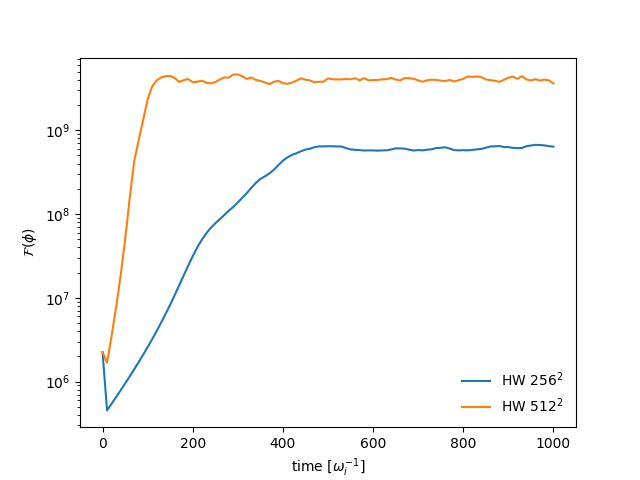
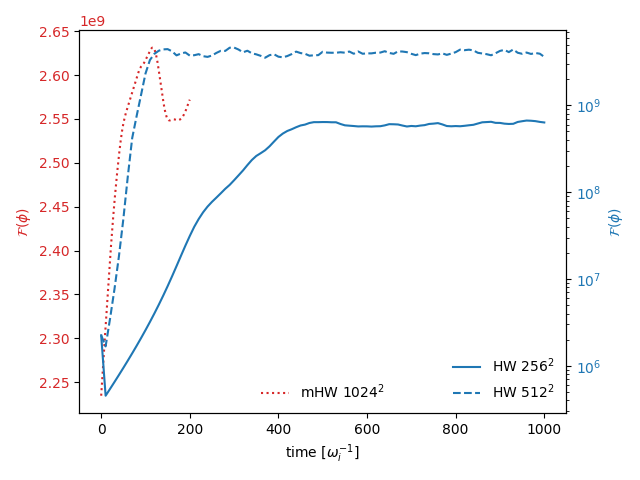
Updated files

diff --git a/plot_all.py b/plot_all.py
@@ -1,26 +1,54 @@
 import numpy as np
 import matplotlib.pyplot as plt
-   
-(ttime, Energy) = np.loadtxt("./HW_N256/energy_vs_time.txt",dtype="float64",unpack=True)
-plt.plot(ttime, Energy, label="HW $256^2$")
 
-(ttime, Energy) = np.loadtxt("./HW_N512/energy_vs_time.txt",dtype="float64",unpack=True)
-plt.plot(ttime, Energy, label="HW $512^2$")
+
+#------------------------------------ energy vs time
+fig, ax1 = plt.subplots()
+
+# mHW 1024
+# ax1.set_yscale('log')
+color = 'tab:red'
+ax1.set_xlabel(r"time [$\omega^{-1}_i$]")
+ax1.set_ylabel(r"$\mathcal{F} (\phi)$", color=color)
 
 (ttime, Energy) = np.loadtxt("./mHW_N1024/energy_vs_time.txt",dtype="float64",unpack=True)
-plt.plot(ttime, Energy, label="mHW $1024^2$")
+plt.plot(ttime, Energy, label="mHW $1024^2$", color=color, linestyle='dotted')
 
-plt.yscale("log")
+ax1.tick_params(axis='y', labelcolor=color)
 
-plt.xlabel(r"time [$\omega^{-1}_i$]")
-plt.ylabel(r"$\mathcal{F} (\phi)$")
+plt.legend(frameon=False, loc='lower center')
+
+
+
+# HW 256 and 512
+ax2 = ax1.twinx()  # instantiate a second axes that shares the same x-axis
+
+ax2.set_yscale('log')
+
+color = 'tab:blue'
+ax2.set_ylabel(r"$\mathcal{F} (\phi)$", color=color)
+
+(ttime, Energy) = np.loadtxt("./HW_N256/energy_vs_time.txt",dtype="float64",unpack=True)
+plt.plot(ttime, Energy, label="HW $256^2$", color=color, linestyle='solid')
+
+(ttime, Energy) = np.loadtxt("./HW_N512/energy_vs_time.txt",dtype="float64",unpack=True)
+plt.plot(ttime, Energy, label="HW $512^2$", color=color, linestyle='dashed' )
+
+ax2.tick_params(axis='y', labelcolor=color)
 
 plt.legend(frameon=False)
+
+
+# print
+fig.tight_layout()  # otherwise the right y-label is slightly clipped
+
 plt.savefig('energy_vs_time.png')
 plt.close()
 
 
 
+
+#------------------------------------ spectra
 plt.xscale("log")
 plt.yscale("log")
 
@@ -30,7 +58,7 @@ plt.plot(k, Energy, label="HW $256^2$")
 (k, Energy) = np.loadtxt("./HW_N512/energy/Spectrum_1000.txt",dtype="float64",unpack=True)
 plt.plot(k, Energy, label="HW $512^2$")
 
-(k, Energy) = np.loadtxt("./mHW_N1024/energy/Spectrum_100.txt",dtype="float64",unpack=True)
+(k, Energy) = np.loadtxt("./mHW_N1024/energy/Spectrum_0200.txt",dtype="float64",unpack=True)
 plt.plot(k, Energy, label="mHW $1024^2$")
 
 plt.xlabel(r"$k$ $[\rho^{-1}_i]$")

diff --git a/mHW_N1024/convert_netCDF2png.py b/mHW_N1024/convert_netCDF2png.py
@@ -25,7 +25,7 @@ STIME    = 0 # starting time to save fields
 FTIME    = 201 # starting time to take as last image
 ITIME    = 1  # skip between STIME, FTIME, ITIME
 NDNS     = 1
-DELT     = 0.1 
+DELT     = 1.0 
 N        = 512
 L        = 50.176 
 delx     = L/N
